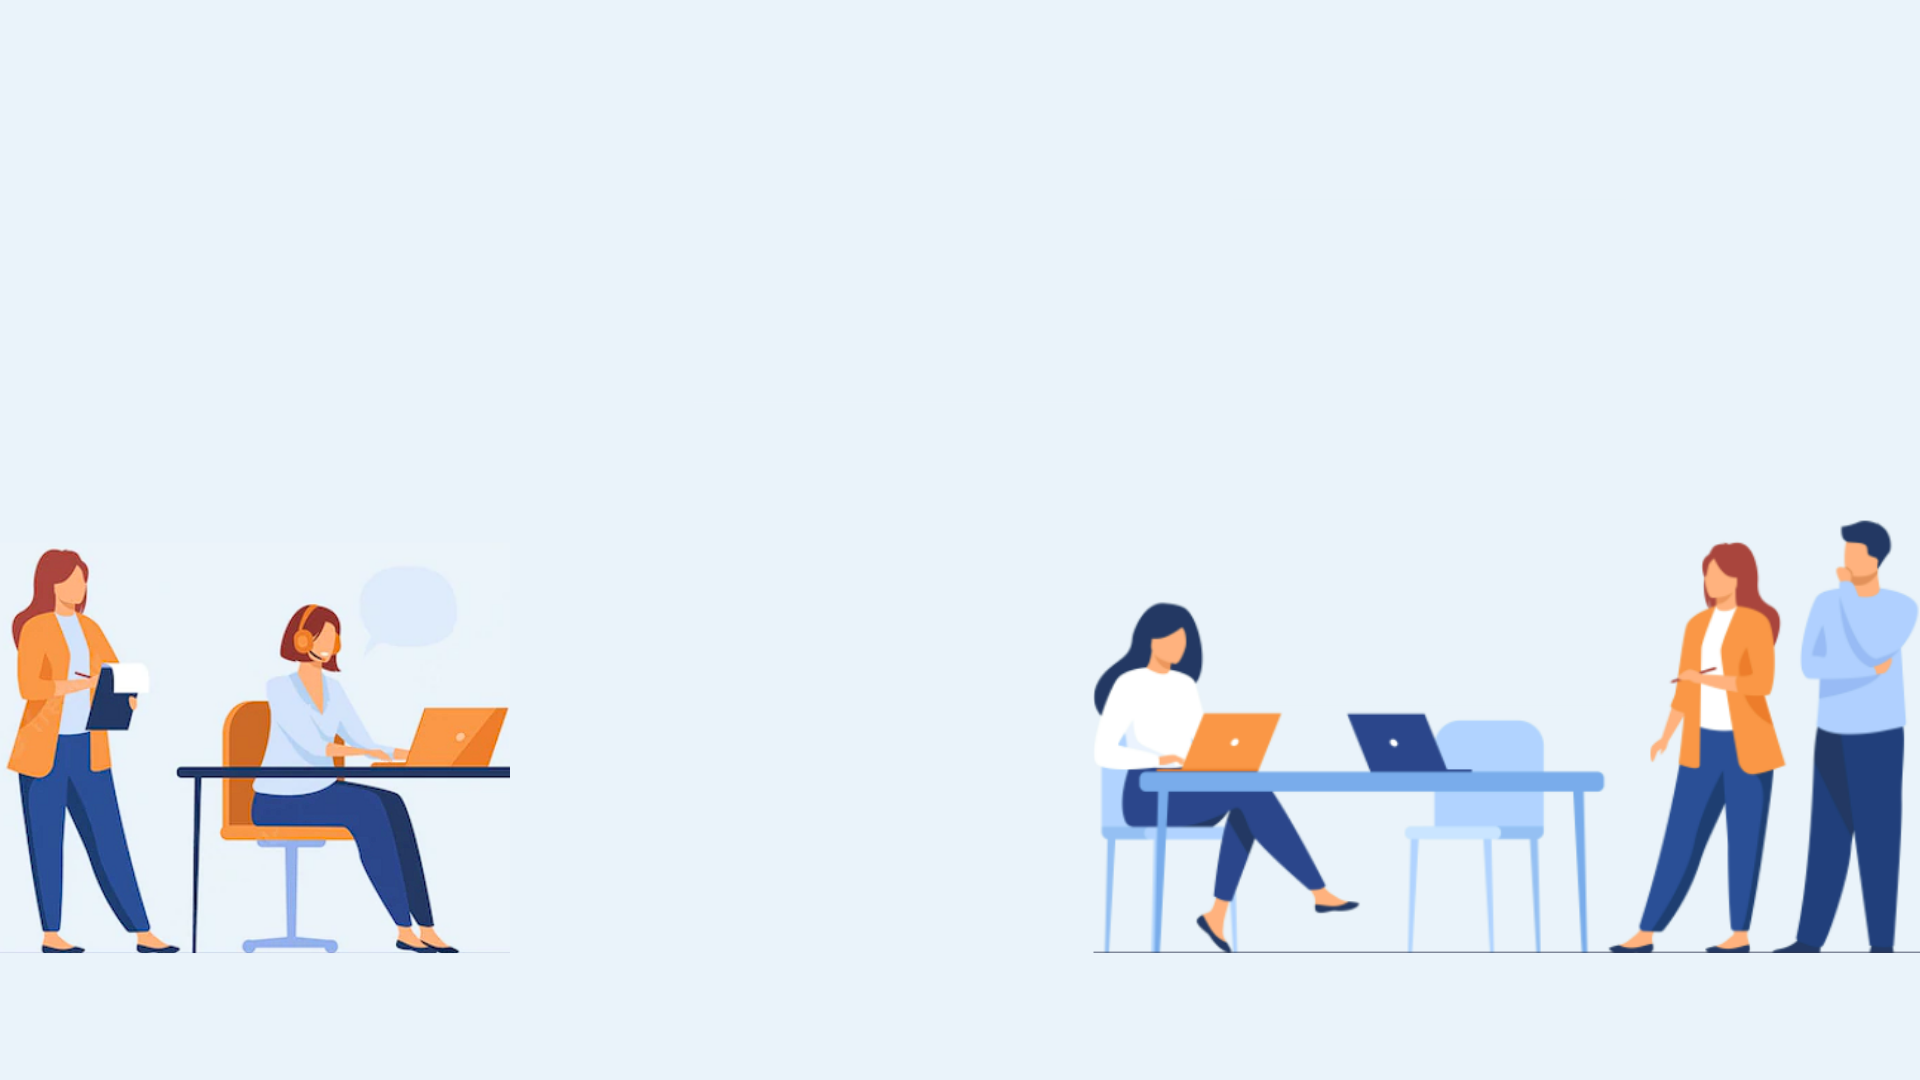
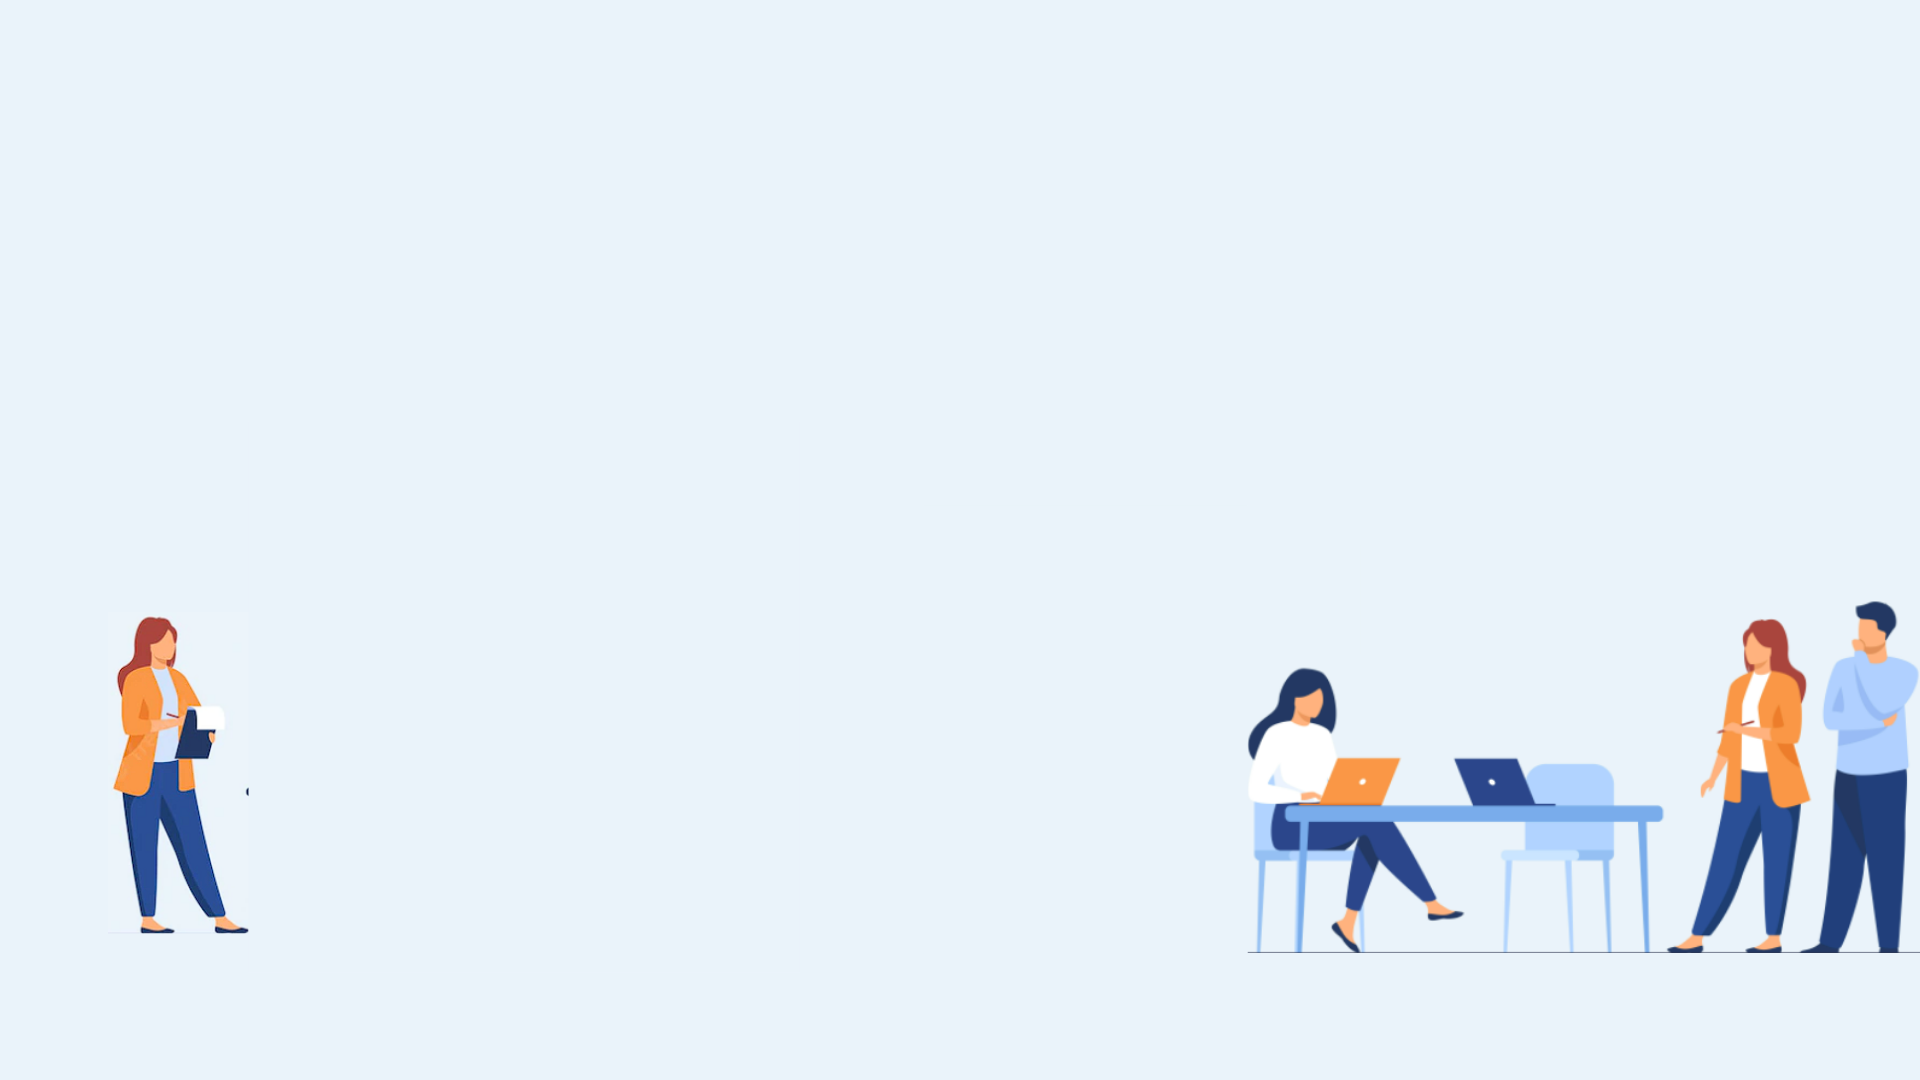
interv back image

Changed region(s): [[0.5625, 0.4889, 1.0, 0.8861], [0.0, 0.4889, 0.2812, 0.8861], [0.5625, 0.55, 0.625, 0.6722]]

diff --git a/src/app/components/interviewer/slot-view/slot-view.component.css b/src/app/components/interviewer/slot-view/slot-view.component.css
@@ -1,7 +1,7 @@
 
 html,body{
     /* background-color: #f0fbfc!important; */
-    background-image: url('../../../../assets/office12345.png');
+    background-image: url('../../../../assets/office123.png');
     background-size: cover;
     
 }
